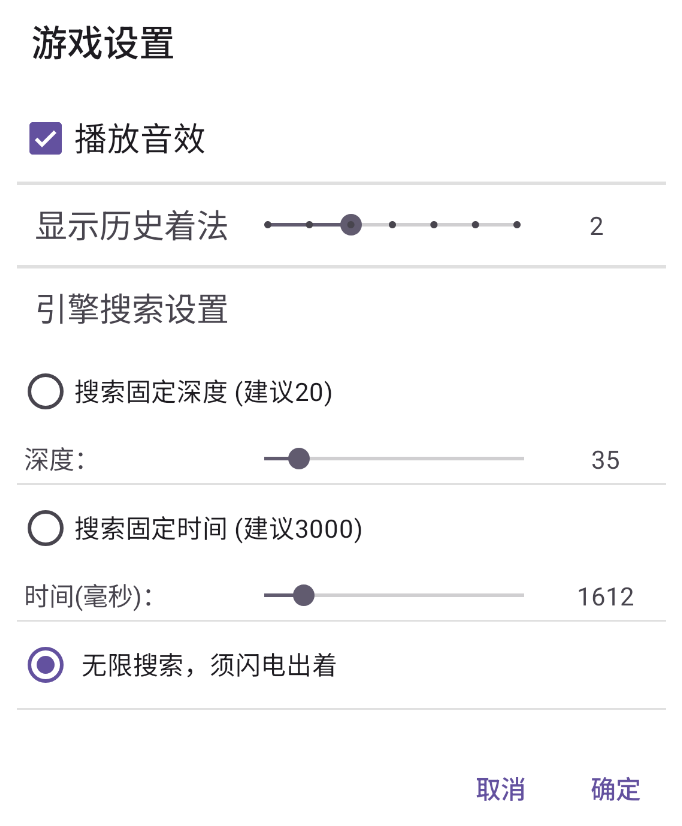
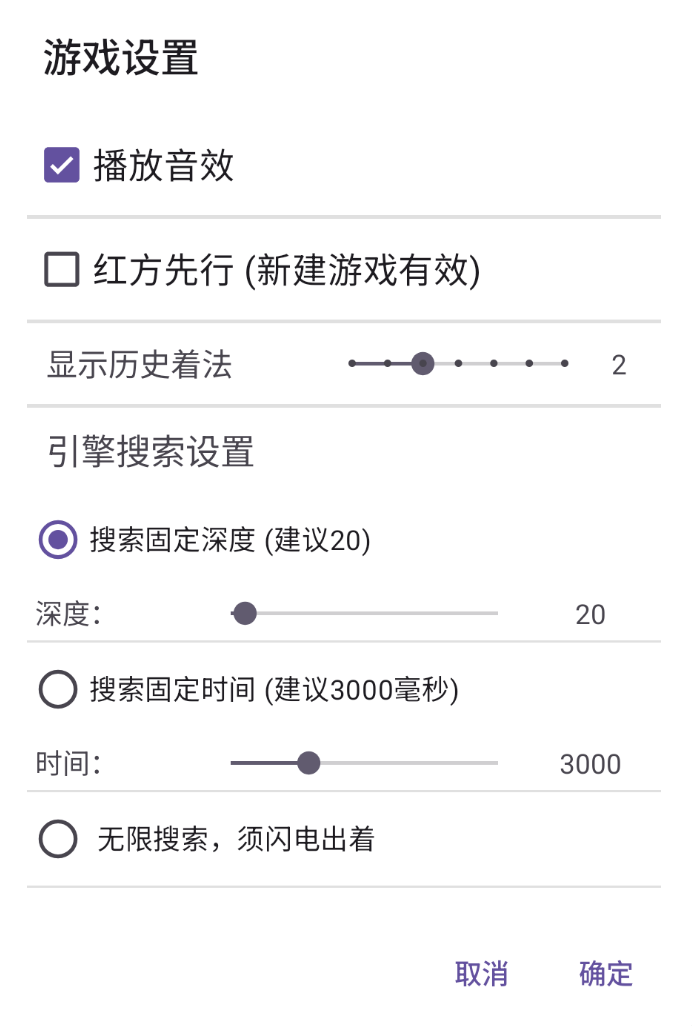
update help

diff --git a/docs/help.html b/docs/help.html
@@ -61,6 +61,13 @@
     <a href="images/multipv.png"><img class="center-fit" src='images/settings.png' style="max-width: 350px"></a>
 </div>
 
+<h4>支持红方先行或黑方先行</h4>
+
+<ui>
+  <li>缺省为红方先行</li>
+  <li>取消后，为黑方先行；如果设置了电脑执黑且自动走棋，则黑方会自动走棋</li>
+  <li>只针对新建游戏有效</li>
+</ui>
 
 <h4>支持三种模式的引擎搜索方法：</h4>
 
